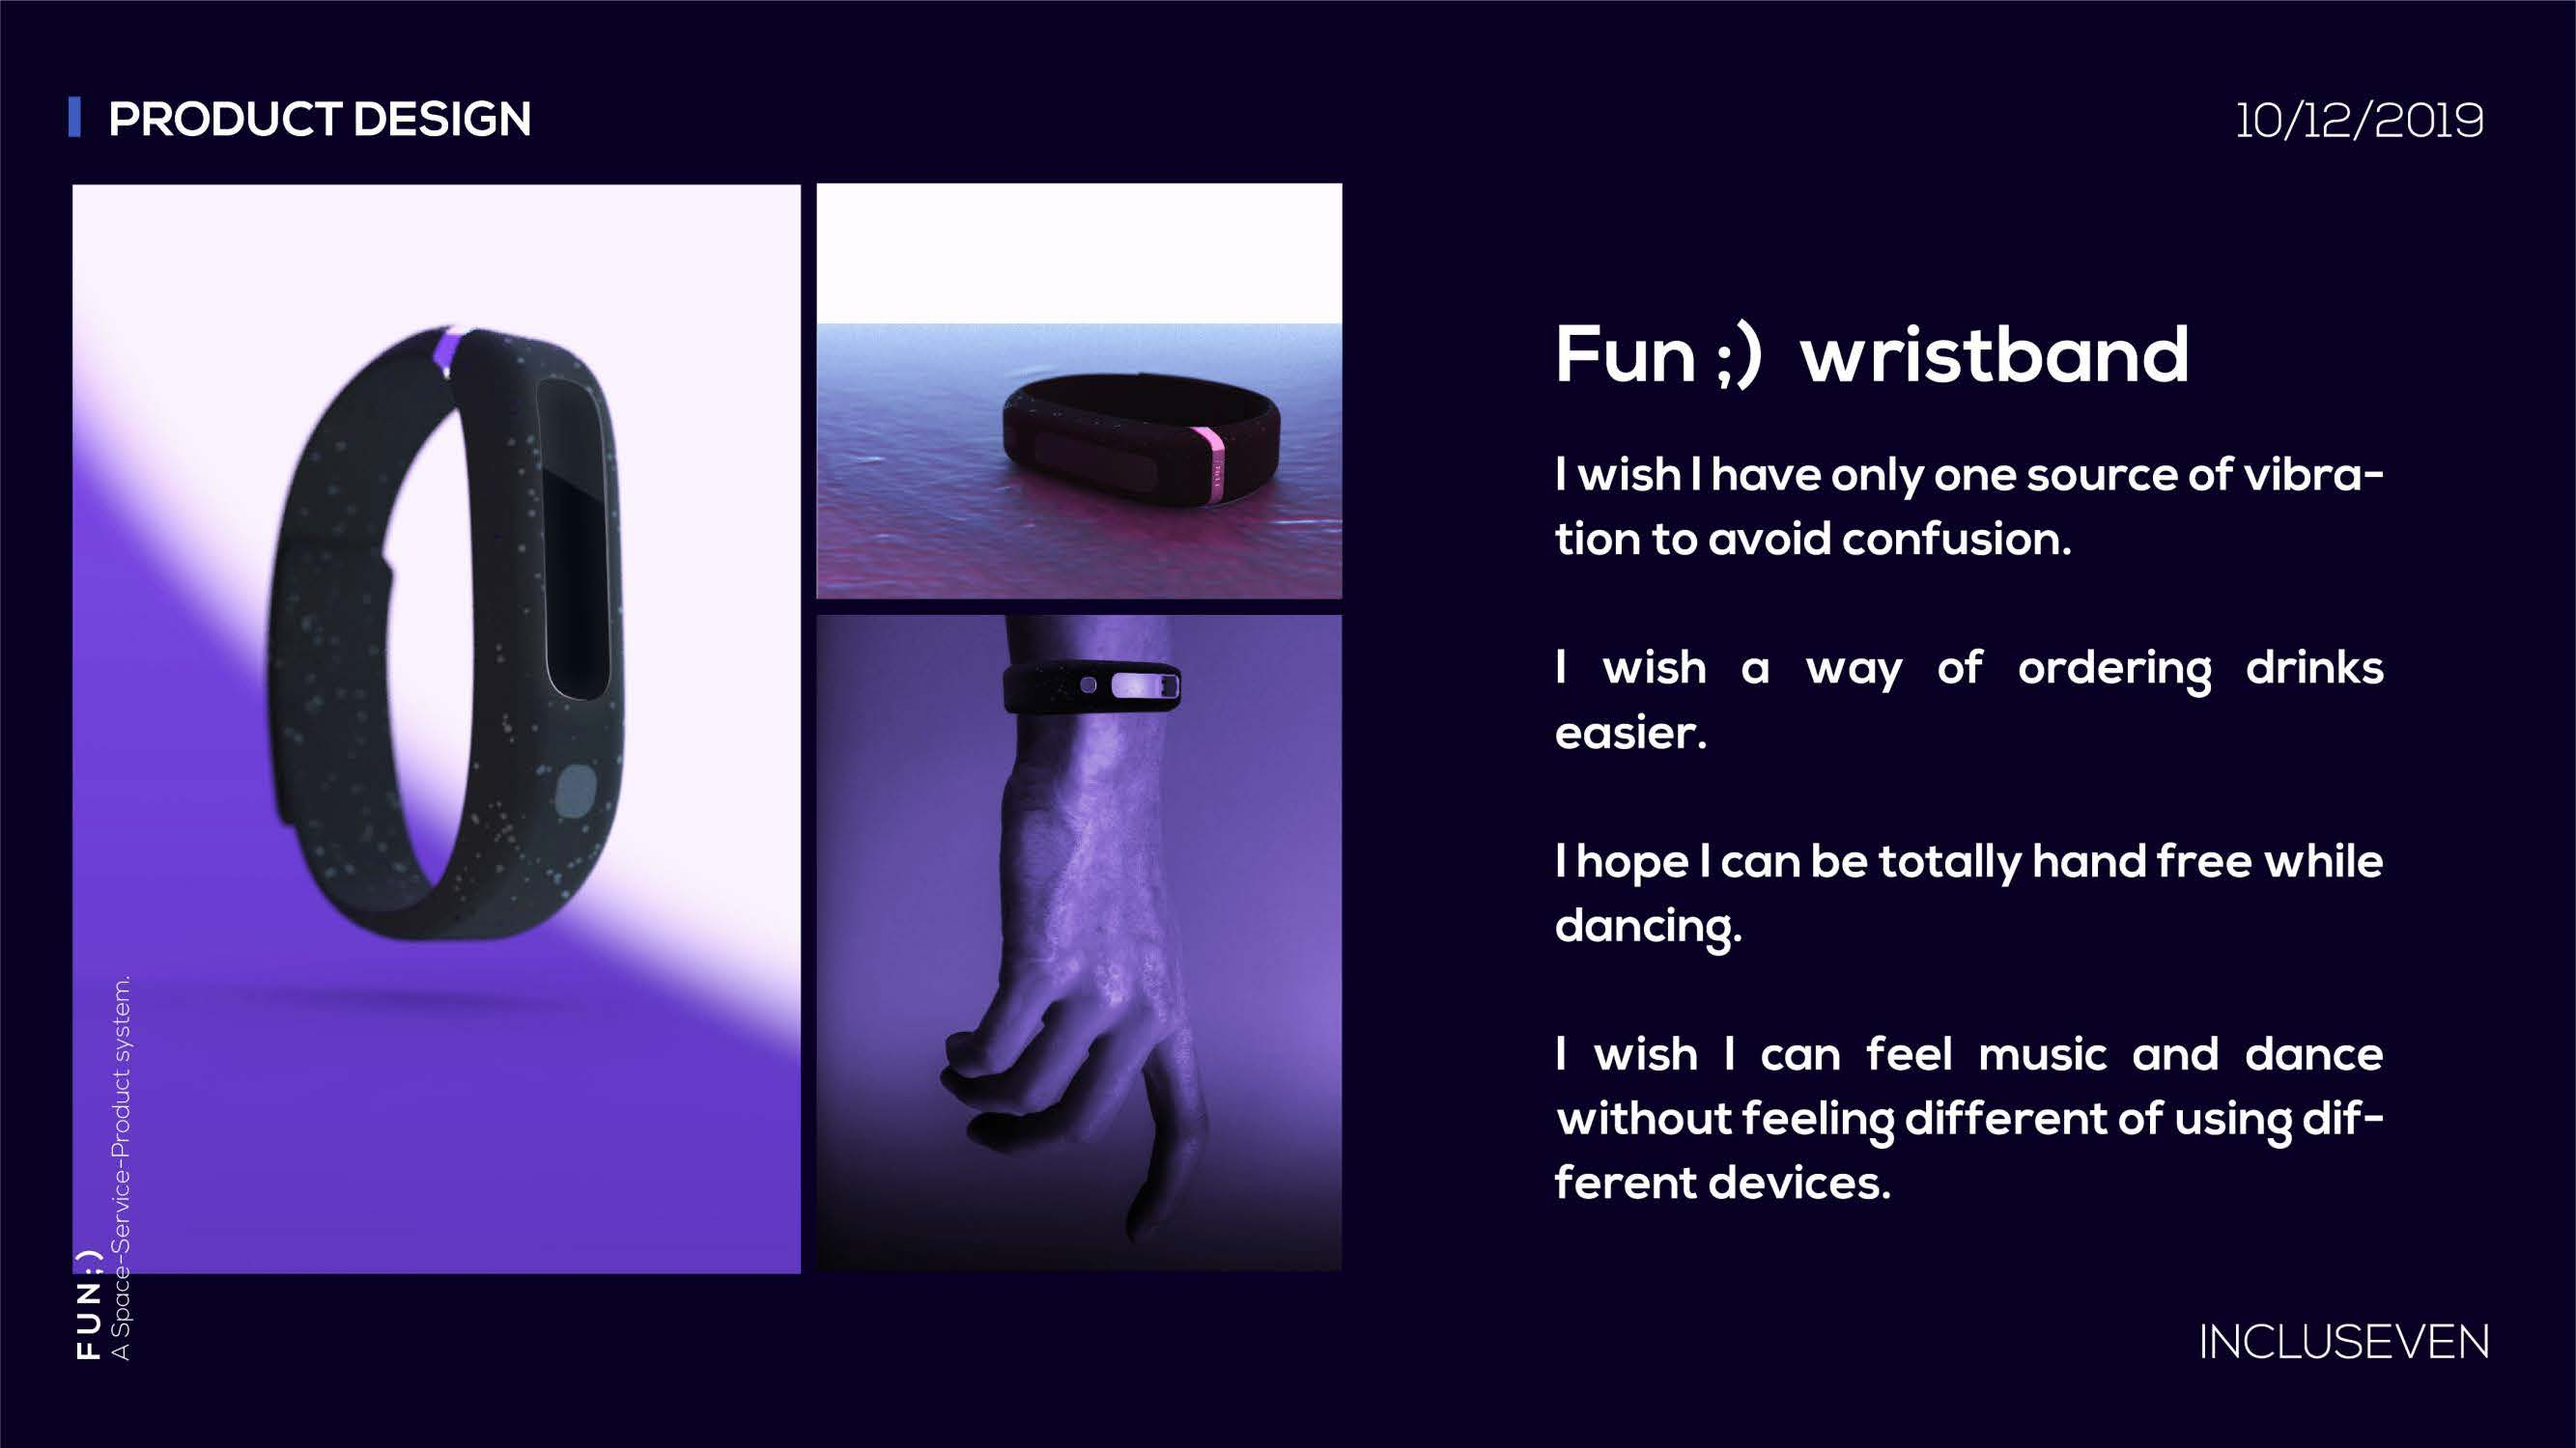
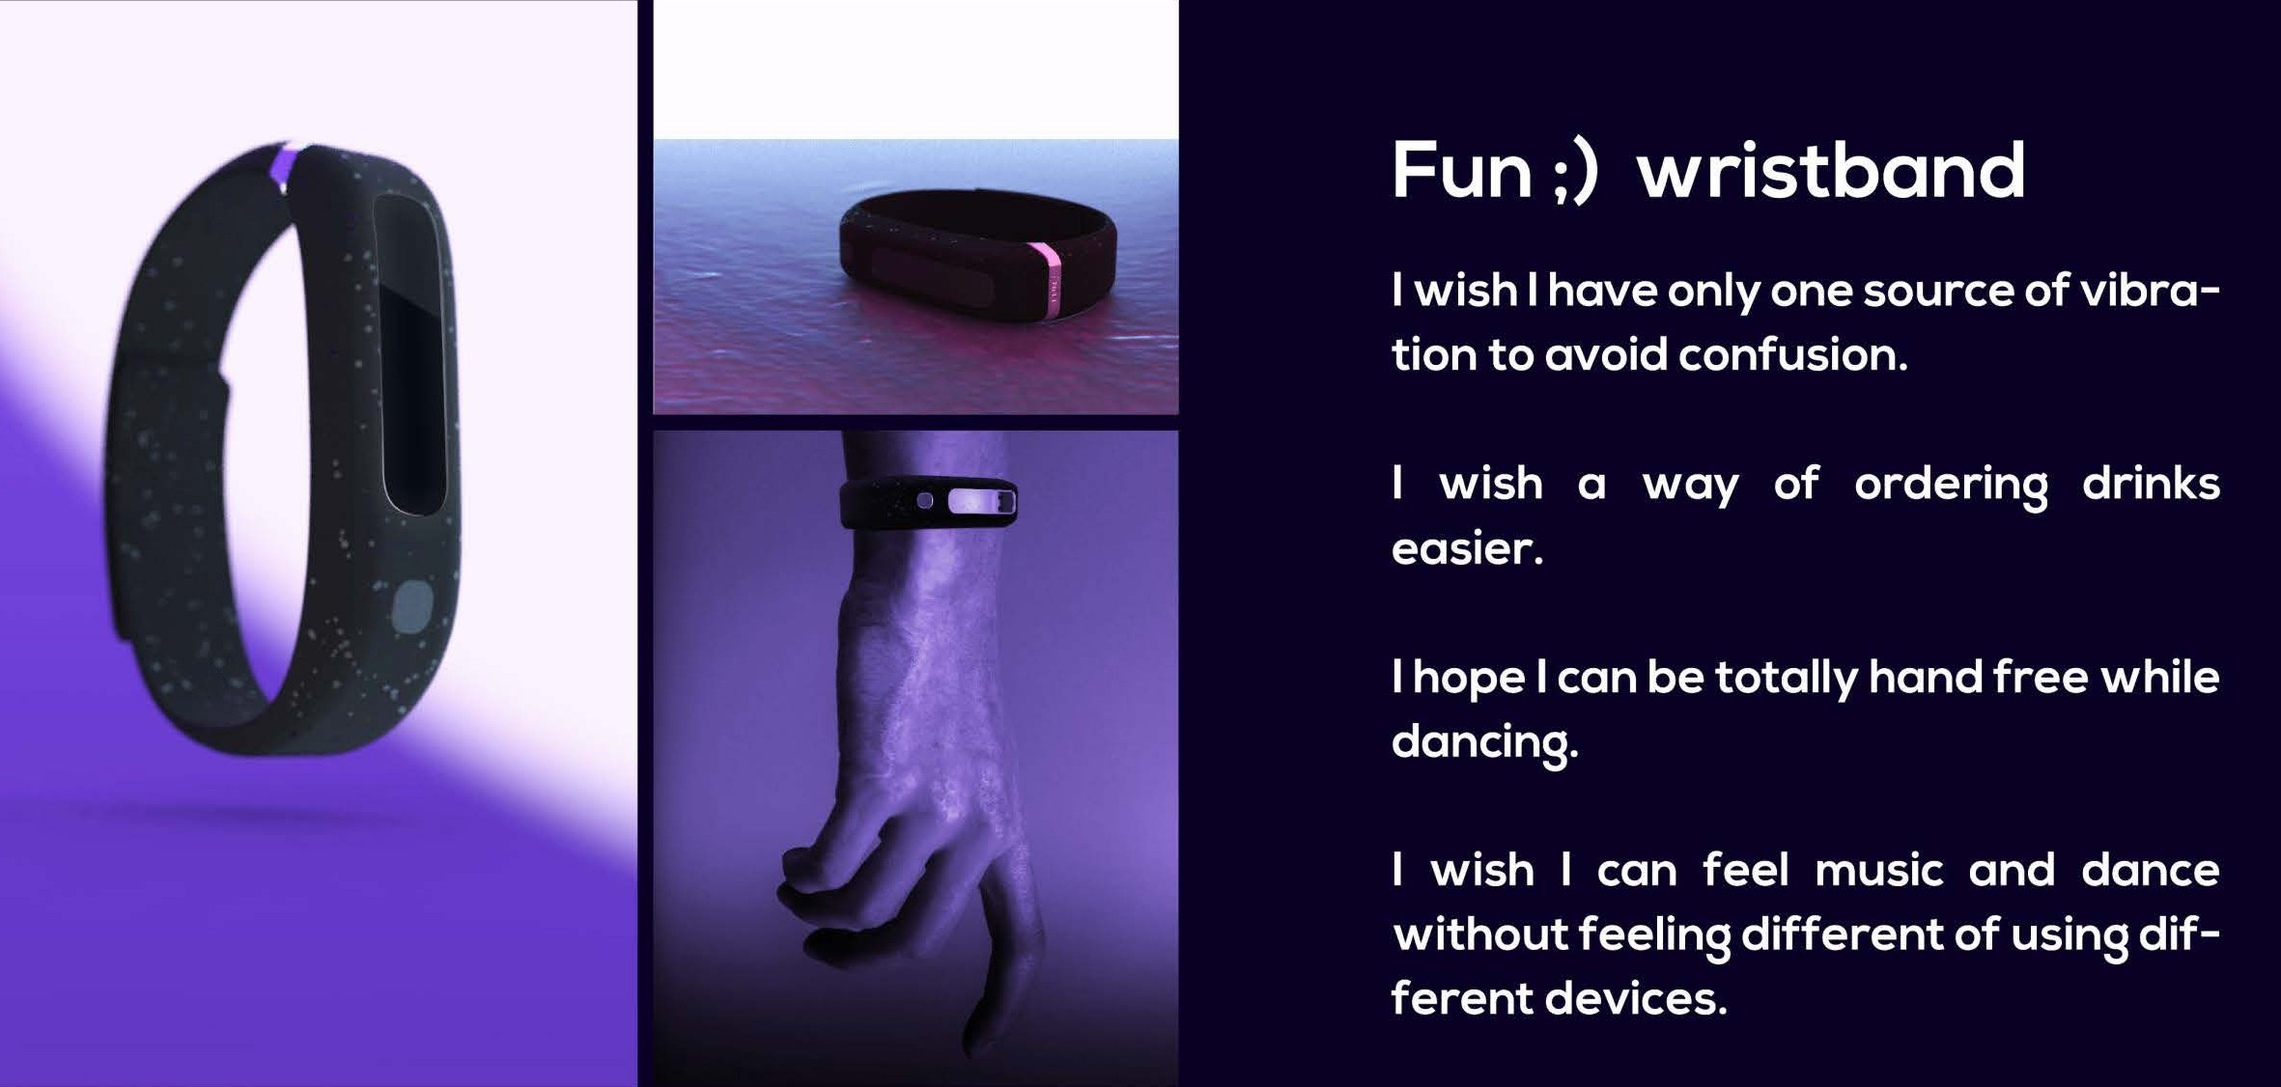
update: new project layout and images

diff --git a/projects.html b/projects.html
@@ -137,7 +137,7 @@
                 <!-- Project 04 -->
                 <a href="project-4-fun.html" class="project-card border-b border-r-0 lg:border-r border-black p-10 lg:p-12 block">
                     <div class="mb-6 aspect-[4/3] bg-[#E5E5E5] border-2 border-black overflow-hidden">
-                        <img src="/media/projects/fun-inclusive/1-storyboard.jpg" alt="FUN;)" class="project-image w-full h-full object-cover">
+                        <img src="/media/projects/fun-inclusive/03-storyboard.jpg" alt="FUN;)" class="project-image w-full h-full object-cover">
                     </div>
                     <div class="project-number text-4xl lg:text-5xl font-bold text-[#111111] mb-4">04</div>
                     <h2 class="project-title text-xl lg:text-2xl font-bold text-[#111111] mb-3 tracking-tight">FUN</h2>
@@ -159,7 +159,7 @@
                 <!-- Project 06 -->
                 <a href="project-6-terrace.html" class="project-card border-b lg:border-b-0 p-10 lg:p-12 block">
                     <div class="mb-6 aspect-[4/3] bg-[#E5E5E5] border-2 border-black overflow-hidden">
-                        <img src="/media/projects/terrace/01-frontview" alt="terrace" class="project-image w-full h-full object-cover">
+                        <img src="/media/projects/terrace/01-frontview.png" alt="terrace" class="project-image w-full h-full object-cover">
                     </div>
                     <div class="project-number text-4xl lg:text-5xl font-bold text-[#111111] mb-4">06</div>
                     <h2 class="project-title text-xl lg:text-2xl font-bold text-[#111111] mb-3 tracking-tight">Shenzhen Terraces</h2>

diff --git a/project-3-abracadabra.html b/project-3-abracadabra.html
@@ -142,6 +142,16 @@
                 </figure>
 
                 <figure>
+                    <img src="media/projects/abracadabra/03.png" 
+                         alt="Minimum Unit" 
+                         class="w-full border-2 border-black"
+                         loading="lazy">
+                    <figcaption class="text-sm text-[#666666] text-center mt-4 italic">
+                        Final rendering 
+                    </figcaption>
+                </figure>
+
+                <figure>
                     <img src="media/projects/abracadabra/01-final_rendering.png" 
                          alt="Minimum Unit" 
                          class="w-full border-2 border-black"
@@ -149,6 +159,13 @@
                     <figcaption class="text-sm text-[#666666] text-center mt-4 italic">
                         Final rendering 
                     </figcaption>
+                </figure>
+
+                <figure>
+                    <img src="media/projects/abracadabra/04.png" 
+                         alt="Minimum Unit" 
+                         class="w-full border-2 border-black"
+                         loading="lazy">
                 </figure>
             </section>
 

diff --git a/project-6-terrace.html b/project-6-terrace.html
@@ -150,16 +150,6 @@
                         Minimum habitable unit
                     </figcaption>
                 </figure>
-
-                <figure>
-                    <img src="media/projects/ghost/04.png" 
-                         alt="Minimum Unit" 
-                         class="w-full border-2 border-black"
-                         loading="lazy">
-                    <figcaption class="text-sm text-[#666666] text-center mt-4 italic">
-                        Minimum habitable unit
-                    </figcaption>
-                </figure>
             </section>
 
             <!-- Back to Top Button -->
